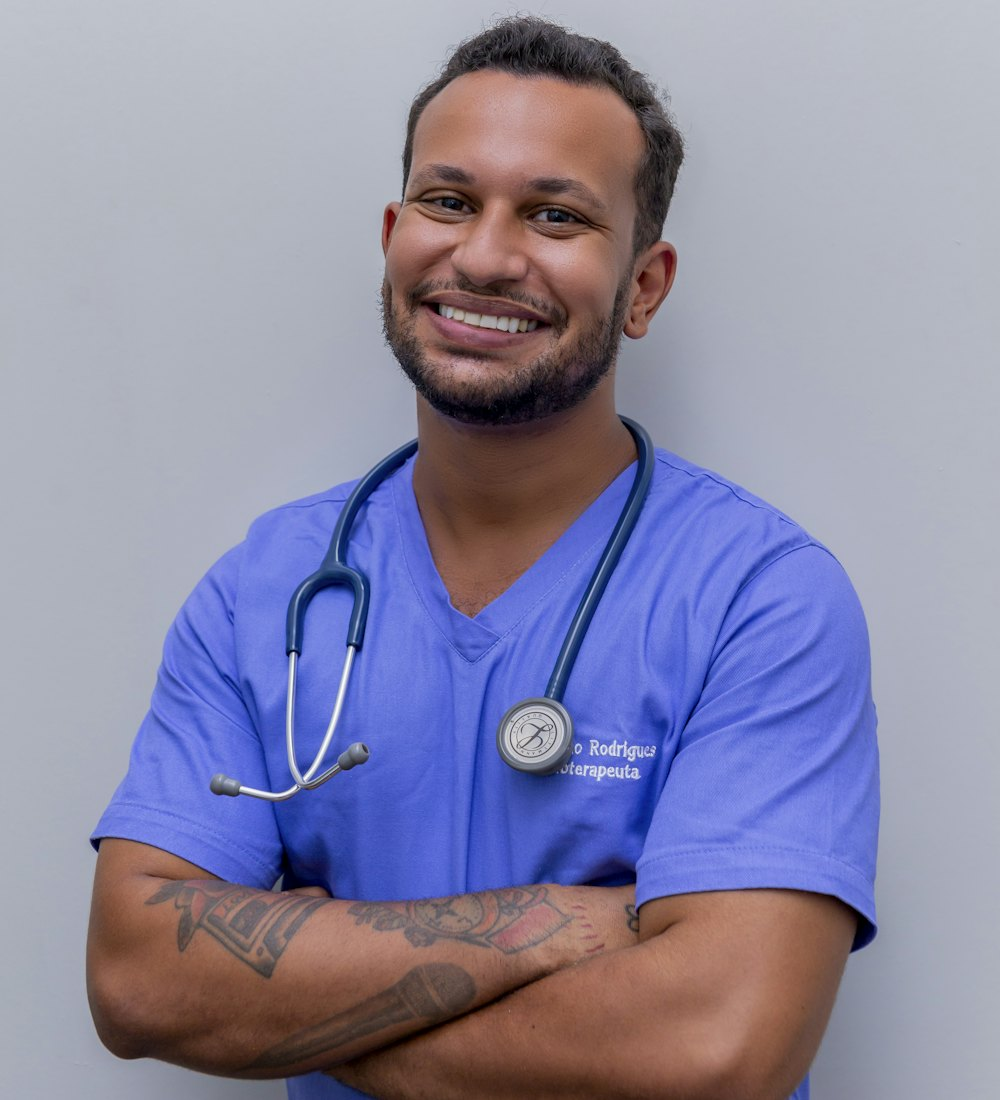
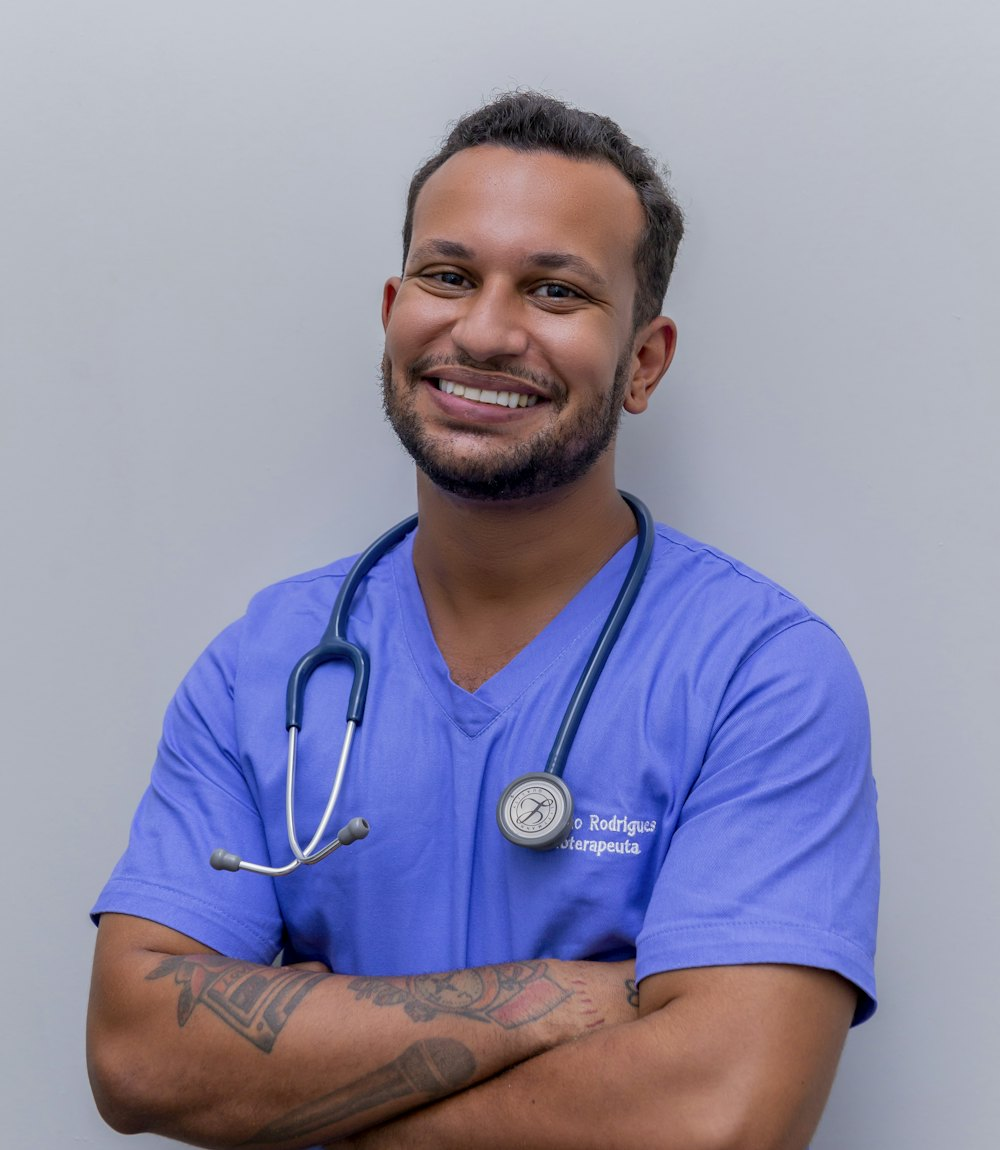
Page À propos : photos chaleureuses et bande de repères nette
- Images remplacées par des portraits africains souriants (médecin,
  patient, soignant) et une scène de consultation chaleureuse, conformes
  à l'audience guinéenne de la plateforme.
- Bande de repères : emojis délavés remplacés par des icônes SVG en ligne
  (pastilles teal), rendu identique sur tous les appareils.
- Héros recadré sur la praticienne souriante, voile dégradé ajusté pour
  garder le texte lisible sans éteindre le sourire.

Changed region(s): [[0.062, 0.0, 0.899, 1.0]]

diff --git a/app/a-propos/page.tsx b/app/a-propos/page.tsx
@@ -44,12 +44,51 @@ const ETAPES = [
   },
 ];
 
+/*
+ * Pictogrammes de la bande de repères. SVG en ligne (et non emoji) : rendu
+ * identique sur tous les appareils, couleur pilotée par la charte (teal).
+ */
+const svgProps = {
+  viewBox: "0 0 24 24",
+  fill: "none",
+  stroke: "currentColor",
+  strokeWidth: 1.8,
+  strokeLinecap: "round" as const,
+  strokeLinejoin: "round" as const,
+  className: "h-[22px] w-[22px]",
+  "aria-hidden": true,
+};
+
+const IconeTarif = () => (
+  <svg {...svgProps}>
+    <path d="M20.6 13.4 13.4 20.6a2 2 0 0 1-2.83 0L3 13V3h10l7.6 7.6a2 2 0 0 1 0 2.8Z" />
+    <circle cx="7.5" cy="7.5" r="1.2" />
+  </svg>
+);
+const IconeMessage = () => (
+  <svg {...svgProps}>
+    <rect x="3" y="5" width="18" height="14" rx="2.5" />
+    <path d="m3.6 6.5 8.4 6 8.4-6" />
+  </svg>
+);
+const IconeBouclier = () => (
+  <svg {...svgProps}>
+    <path d="M12 3 5 5.8V11c0 4.4 3 7.4 7 9 4-1.6 7-4.6 7-9V5.8L12 3Z" />
+    <path d="m8.8 12 2.2 2.2 4.2-4.3" />
+  </svg>
+);
+const IconeEtoile = () => (
+  <svg {...svgProps}>
+    <path d="M12 3.5 14.6 9l5.9.8-4.3 4.1 1 5.8-5.2-2.8L6.8 19.7l1-5.8L3.5 9.8 9.4 9 12 3.5Z" />
+  </svg>
+);
+
 /** Repères factuels — tous adossés à une fonctionnalité existante. */
 const REPERES = [
-  { k: "Gratuit", v: "Réservation sans frais", i: "💳" },
-  { k: "SMS + e-mail", v: "Confirmation immédiate", i: "✉" },
-  { k: "Vérifiés", v: "Comptes pros contrôlés", i: "✅" },
-  { k: "Authentiques", v: "Avis après consultation", i: "⭐" },
+  { k: "Gratuit", v: "Réservation sans frais", Icone: IconeTarif },
+  { k: "SMS + e-mail", v: "Confirmation immédiate", Icone: IconeMessage },
+  { k: "Vérifiés", v: "Comptes pros contrôlés", Icone: IconeBouclier },
+  { k: "Authentiques", v: "Avis après consultation", Icone: IconeEtoile },
 ];
 
 /** Nos engagements — ce qui guide les choix de la plateforme. */
@@ -84,17 +123,17 @@ const contenu = (
       {/* eslint-disable-next-line @next/next/no-img-element */}
       <img
         src="/apropos/hero-soignants.jpg"
-        alt="Deux professionnels de santé examinant une imagerie médicale"
-        className="absolute inset-0 h-full w-full object-cover object-[70%_center]"
+        alt="Une médecin souriante, stéthoscope autour du cou"
+        className="absolute inset-0 h-full w-full object-cover object-[center_26%]"
         width={1680}
-        height={1120}
+        height={1080}
         fetchPriority="high"
       />
-      {/* Voile dégradé bleu, repris du héros d'accueil, pour que le texte reste
-          lisible quelle que soit la photo. */}
+      {/* Voile dégradé bleu, repris du héros d'accueil : garde le texte lisible
+          tout en laissant le sourire de la praticienne transparaître à droite. */}
       <div
         aria-hidden
-        className="absolute inset-0 bg-[linear-gradient(135deg,rgba(14,59,80,0.95)_0%,rgba(21,80,107,0.86)_46%,rgba(21,80,107,0.42)_100%)]"
+        className="absolute inset-0 bg-[linear-gradient(118deg,rgba(14,59,80,0.94)_0%,rgba(15,63,84,0.80)_38%,rgba(18,70,94,0.54)_64%,rgba(20,74,100,0.38)_100%)]"
       />
       <div className="relative mx-auto max-w-[1200px] px-5 py-16 text-white md:px-[30px] md:py-[104px]">
         <span className="inline-block rounded-[30px] bg-white/15 px-[14px] py-[6px] text-[12.5px] font-bold tracking-[0.04em] backdrop-blur-sm md:text-[13px]">
@@ -127,13 +166,16 @@ const contenu = (
 
     {/* ======================= REPÈRES (carte flottante) ======================= */}
     <div className="mx-auto -mt-8 w-full max-w-[1200px] px-5 md:-mt-10 md:px-[30px]">
-      <div className="grid grid-cols-2 gap-px overflow-hidden rounded-2xl border border-line bg-line shadow-[0_10px_30px_-18px_rgba(14,59,80,0.45)] md:grid-cols-4">
+      <div className="grid grid-cols-2 gap-px overflow-hidden rounded-2xl border border-line bg-line shadow-[0_14px_36px_-20px_rgba(14,59,80,0.5)] md:grid-cols-4">
         {REPERES.map((r) => (
-          <div key={r.k} className="bg-white p-4 text-center md:p-5">
-            <div className="text-[20px] md:text-[22px]" aria-hidden>
-              {r.i}
-            </div>
-            <b className="mt-1.5 block text-[14px] font-extrabold md:text-[16px]">{r.k}</b>
+          <div
+            key={r.k}
+            className="flex flex-col items-center bg-white px-3 py-5 text-center md:px-4 md:py-6"
+          >
+            <span className="grid h-11 w-11 place-items-center rounded-[14px] bg-teal-soft text-teal">
+              <r.Icone />
+            </span>
+            <b className="mt-3 block text-[14px] font-extrabold md:text-[15.5px]">{r.k}</b>
             <span className="mt-0.5 block text-[11.5px] leading-tight text-muted md:text-[12.5px]">
               {r.v}
             </span>
@@ -183,10 +225,10 @@ const contenu = (
           {/* eslint-disable-next-line @next/next/no-img-element */}
           <img
             src="/apropos/consultation.jpg"
-            alt="Un soignant prend la tension d’une patiente lors d’une consultation"
-            className="h-full max-h-[420px] w-full object-cover"
-            width={1000}
-            height={1100}
+            alt="Un soignant souriant ausculte une patiente lors d’une consultation"
+            className="h-full max-h-[440px] w-full object-cover"
+            width={1200}
+            height={1000}
             loading="lazy"
           />
         </div>
@@ -242,11 +284,11 @@ const contenu = (
           <div className="relative h-[200px] md:h-[240px]">
             {/* eslint-disable-next-line @next/next/no-img-element */}
             <img
-              src="/apropos/reservation-mobile.jpg"
-              alt="Un médecin consulte un rendez-vous sur son téléphone"
-              className="absolute inset-0 h-full w-full object-cover"
-              width={1000}
-              height={1100}
+              src="/apropos/patient.jpg"
+              alt="Un patient souriant"
+              className="absolute inset-0 h-full w-full object-cover object-[center_28%]"
+              width={1100}
+              height={950}
               loading="lazy"
             />
             <span className="absolute left-4 top-4 rounded-full bg-white/90 px-3 py-1 text-[12px] font-extrabold text-blue backdrop-blur">
